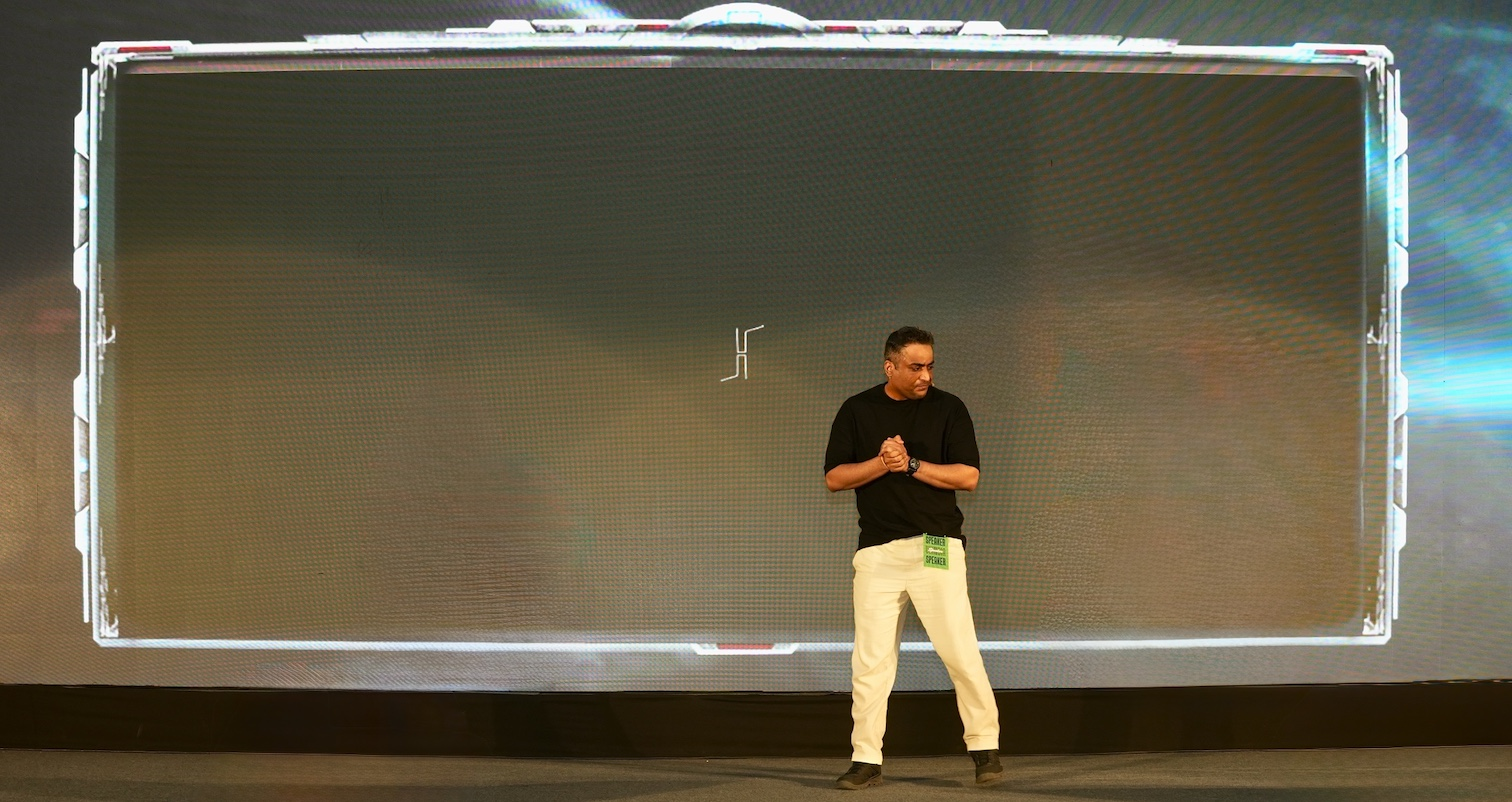
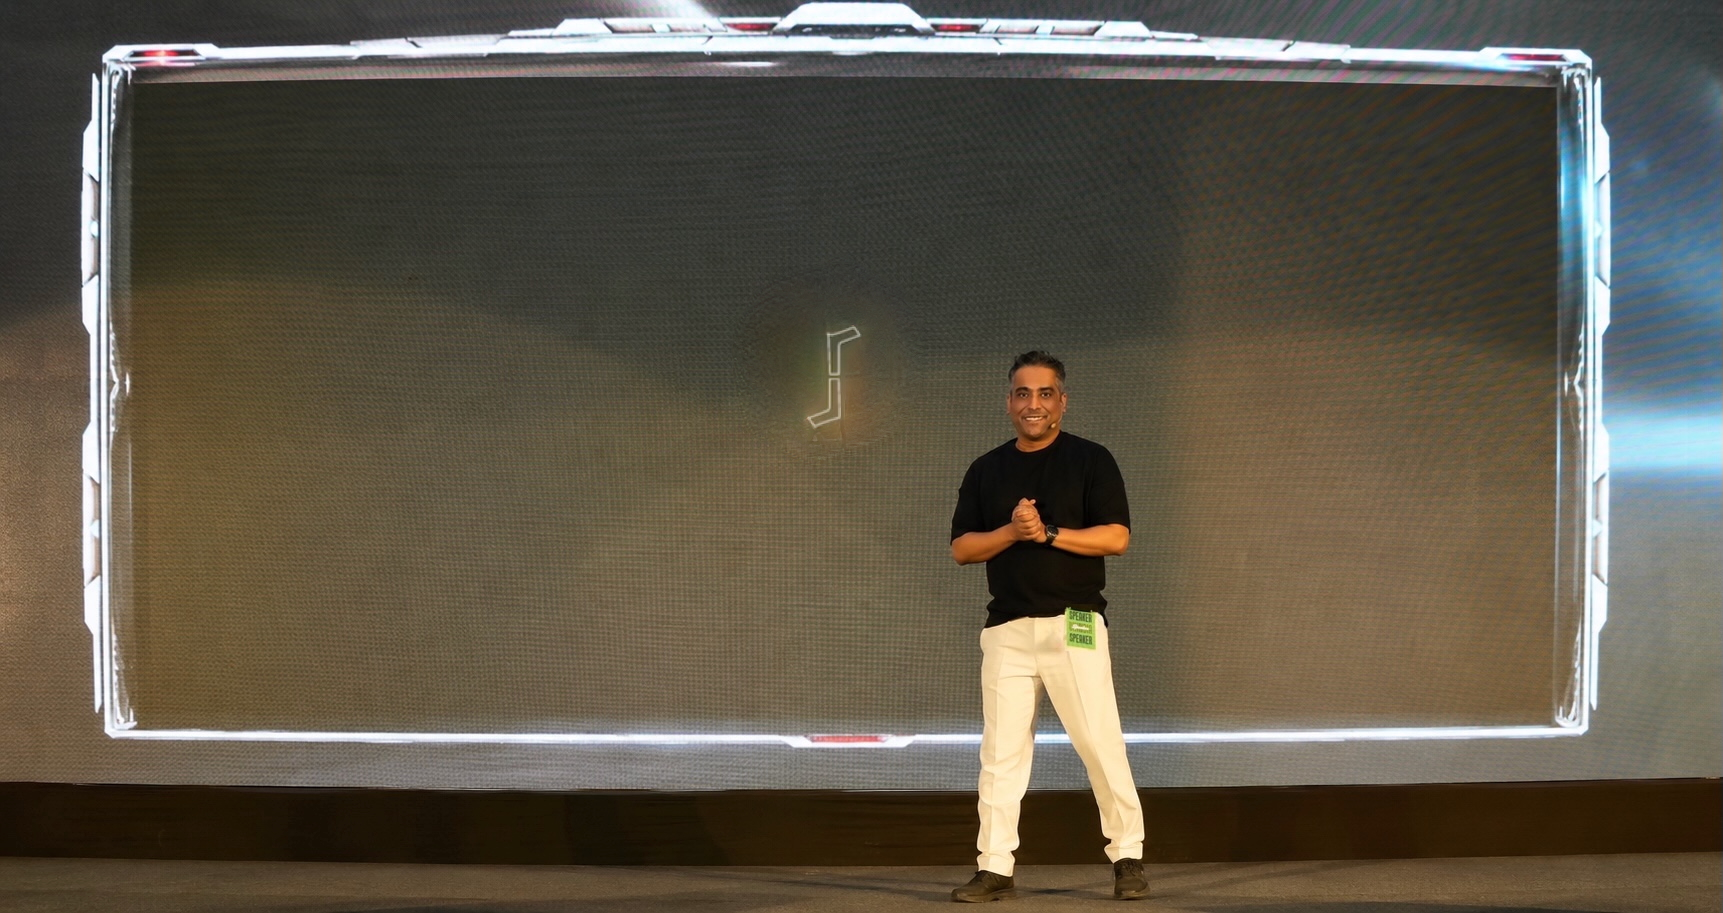
Update header glass and journey details

diff --git a/src/App.jsx b/src/App.jsx
@@ -497,9 +497,10 @@ function Header({ theme, onThemeChange }) {
   const logoHeight = (viewportWidth >= 768 ? 56 : 48) - (viewportWidth >= 768 ? 20 : 14) * easedProgress;
   const verticalPadding = 16 - 6 * easedProgress;
   const horizontalPadding = 24 - 8 * easedProgress;
-  const backgroundOpacity = 0.8 + 0.14 * easedProgress;
-  const borderOpacity = 0.1 + 0.12 * easedProgress;
+  const backgroundOpacity = 0.005 + 0.035 * easedProgress;
+  const borderOpacity = 0.22 + 0.16 * easedProgress;
   const navStyle = {
+    "--header-glass-strength": easedProgress,
     top: `${16 * easedProgress}px`,
     left: `${left}px`,
     width: `${width}px`,
@@ -508,21 +509,21 @@ function Header({ theme, onThemeChange }) {
     padding: `${verticalPadding}px ${horizontalPadding}px`,
     borderColor:
       theme === "light"
-        ? `rgba(17, 24, 39, ${0.12 + 0.12 * easedProgress})`
+        ? `rgba(255, 255, 255, ${0.42 + 0.18 * easedProgress})`
         : `rgba(255, 255, 255, ${borderOpacity})`,
     backgroundColor:
       theme === "light"
-        ? `rgba(247, 245, 239, ${0.86 + 0.08 * easedProgress})`
+        ? `rgba(255, 255, 255, ${0.02 + 0.05 * easedProgress})`
         : `rgba(5, 5, 5, ${backgroundOpacity})`,
     boxShadow:
       easedProgress > 0.02
-        ? `0 ${12 + 18 * easedProgress}px ${28 + 34 * easedProgress}px rgba(0, 0, 0, ${0.18 + 0.2 * easedProgress})`
+        ? `0 ${10 + 14 * easedProgress}px ${24 + 26 * easedProgress}px rgba(0, 0, 0, ${0.1 + 0.08 * easedProgress}), inset 0 1px 0 rgba(255, 255, 255, ${0.22 + 0.16 * easedProgress}), inset 0 -1px 0 rgba(255, 255, 255, ${0.05 + 0.06 * easedProgress})`
         : "none",
   };
 
   return (
     <motion.nav
-      className="fixed z-50 flex items-center justify-between border backdrop-blur-md"
+      className="header-liquid-glass fixed z-50 flex items-center justify-between border backdrop-blur-md"
       style={navStyle}
       data-header-progress={progress.toFixed(3)}
     >
@@ -998,13 +999,6 @@ function RolePanel({ role, onSelectProject }) {
   const stage = getStageForRole(role);
   const RoleIcon = getRoleIcon(role);
   const hasGallery = Array.isArray(role.gallery) && role.gallery.length > 0;
-  const roleMeta = [
-    ["Timeline", role.timeline],
-    ["Context", role.context],
-    ["Source", role.sourceReference],
-    ["Confidence", role.confidence],
-    ["Needs clarity", role.gaps],
-  ].filter(([, value]) => value);
 
   return (
     <motion.div
@@ -1032,20 +1026,9 @@ function RolePanel({ role, onSelectProject }) {
         </div>
       )}
 
-      <div className="mt-8 grid gap-6 xl:grid-cols-2">
+      <div className="mt-8">
         <div>
-          <p className="text-xs uppercase tracking-[0.22em] text-white/35">Details</p>
-          <div className="mt-4 flex flex-wrap gap-2">
-            {role.details.map((detail) => (
-              <span key={detail} className="rounded-full border border-white/10 bg-black/35 px-4 py-2 text-sm text-white/68">
-                {detail}
-              </span>
-            ))}
-          </div>
-        </div>
-
-        <div>
-          <p className="text-xs uppercase tracking-[0.22em] text-white/35">Method</p>
+          <p className="text-xs uppercase tracking-[0.22em] text-white/35">Key Competencies and Skillsets</p>
           <div className="mt-4 flex flex-wrap gap-2">
             {role.method.map((step) => (
               <span key={step} className="rounded-full border border-white/10 bg-black/35 px-4 py-2 text-sm text-white/68">
@@ -1055,17 +1038,6 @@ function RolePanel({ role, onSelectProject }) {
           </div>
         </div>
       </div>
-
-      {roleMeta.length > 0 && (
-        <div className="mt-8 grid gap-3 md:grid-cols-2">
-          {roleMeta.map(([label, value]) => (
-            <div key={label} className="rounded-2xl border border-white/10 bg-black/30 p-4">
-              <p className="text-[10px] uppercase tracking-[0.22em] text-white/35">{label}</p>
-              <p className="mt-2 text-sm leading-6 text-white/62">{value}</p>
-            </div>
-          ))}
-        </div>
-      )}
 
       <div className="mt-8">
         <p className="text-xs uppercase tracking-[0.22em] text-white/35">{role.projectsTitle}</p>
@@ -1096,11 +1068,6 @@ function RolePanel({ role, onSelectProject }) {
               <h4 className="mt-5 text-lg leading-6">{project.title}</h4>
               <p className="mt-4 text-xs leading-6 text-white/45">{project.line}</p>
               {project.type === "class" && <ProfessorMini professor={project.professor} />}
-              {project.confidence && (
-                <p className="mt-4 text-[10px] uppercase tracking-[0.2em] text-white/35">
-                  {project.confidence} confidence
-                </p>
-              )}
             </button>
           ))}
         </div>
@@ -1338,17 +1305,11 @@ function ProjectDrawer({ item, onClose }) {
   const hasProfessor = item.type === "class" || Boolean(item.professor);
   const hasSchoolLogo = item.type === "class" && Boolean(item.schoolLogo);
   const storyBlocks = [
-    ["Context", item.context],
     ["My Role", item.myRole],
     ["Work", item.work],
     ["Stakeholders", item.stakeholders],
     ["Impact", item.impact],
-    ["Theory / Methods", item.theory],
-  ].filter(([, value]) => value);
-  const notes = [
-    ["Source", item.sourceReference],
-    ["Confidence", item.confidence],
-    ["Needs clarity", item.gaps],
+    ["Key Competencies and Skillsets", item.theory],
   ].filter(([, value]) => value);
   const mediaUrl = typeof item.media === "string" ? item.media : "";
   const youtubeEmbedUrl = getYouTubeEmbedUrl(mediaUrl);
@@ -1445,19 +1406,6 @@ function ProjectDrawer({ item, onClose }) {
             {hasProfessor && <ProfessorBlock professor={item.professor} />}
 
             <ResourceLinks links={item.resourceLinks} />
-
-            {notes.length > 0 && (
-              <div className="mt-8 rounded-3xl border border-white/10 bg-black/30 p-6">
-                <p className="text-sm uppercase tracking-[0.2em] text-white/35">Spreadsheet Notes</p>
-                <div className="mt-5 grid gap-4 text-sm leading-7 text-white/58">
-                  {notes.map(([label, value]) => (
-                    <p key={label}>
-                      <span className="text-white">{label}:</span> {value}
-                    </p>
-                  ))}
-                </div>
-              </div>
-            )}
 
             <div className="mt-8 rounded-3xl border border-white/10 bg-white/[0.035] p-6">
               <p className="text-sm uppercase tracking-[0.2em] text-white/35">How this fits the line</p>

diff --git a/src/index.css b/src/index.css
@@ -198,6 +198,62 @@ textarea {
   filter: invert(1);
 }
 
+.header-liquid-glass {
+  -webkit-backdrop-filter: blur(26px) saturate(1.45) contrast(1.04);
+  backdrop-filter: blur(26px) saturate(1.45) contrast(1.04);
+  isolation: isolate;
+  overflow: hidden;
+}
+
+.header-liquid-glass > * {
+  position: relative;
+  z-index: 1;
+}
+
+.header-liquid-glass::before,
+.header-liquid-glass::after {
+  border-radius: inherit;
+  content: "";
+  inset: 0;
+  opacity: calc(0.1 + (var(--header-glass-strength, 0) * 0.32));
+  pointer-events: none;
+  position: absolute;
+  z-index: 0;
+}
+
+.header-liquid-glass::before {
+  background:
+    radial-gradient(circle at 16% 8%, rgba(255, 255, 255, 0.3), transparent 25%),
+    radial-gradient(circle at 84% 18%, rgba(255, 255, 255, 0.12), transparent 22%),
+    linear-gradient(115deg, rgba(255, 255, 255, 0.1), transparent 34%, rgba(255, 255, 255, 0.04) 62%, transparent 78%);
+  mix-blend-mode: screen;
+}
+
+.header-liquid-glass::after {
+  background:
+    linear-gradient(to bottom, rgba(255, 255, 255, 0.14), transparent 44%, rgba(255, 255, 255, 0.025)),
+    radial-gradient(ellipse at center, transparent 50%, rgba(0, 0, 0, 0.035) 100%);
+  box-shadow:
+    inset 0 0 0 1px rgba(255, 255, 255, 0.16),
+    inset 0 14px 32px rgba(255, 255, 255, 0.08),
+    inset 0 -18px 34px rgba(0, 0, 0, 0.03);
+}
+
+.site-root[data-theme="light"] .header-liquid-glass {
+  -webkit-backdrop-filter: blur(24px) saturate(1.28) brightness(1.04);
+  backdrop-filter: blur(24px) saturate(1.28) brightness(1.04);
+}
+
+.site-root[data-theme="light"] .header-liquid-glass::after {
+  background:
+    linear-gradient(to bottom, rgba(255, 255, 255, 0.36), transparent 44%, rgba(255, 255, 255, 0.08)),
+    radial-gradient(ellipse at center, transparent 48%, rgba(17, 24, 39, 0.03) 100%);
+  box-shadow:
+    inset 0 0 0 1px rgba(255, 255, 255, 0.44),
+    inset 0 14px 32px rgba(255, 255, 255, 0.12),
+    inset 0 -18px 34px rgba(17, 24, 39, 0.03);
+}
+
 .site-root[data-theme="light"] .text-white,
 .site-root[data-theme="light"] [class~="hover:text-white"]:hover {
   color: #111827;